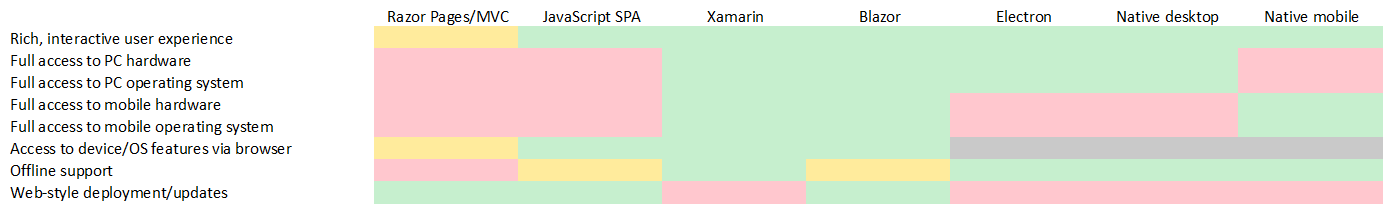
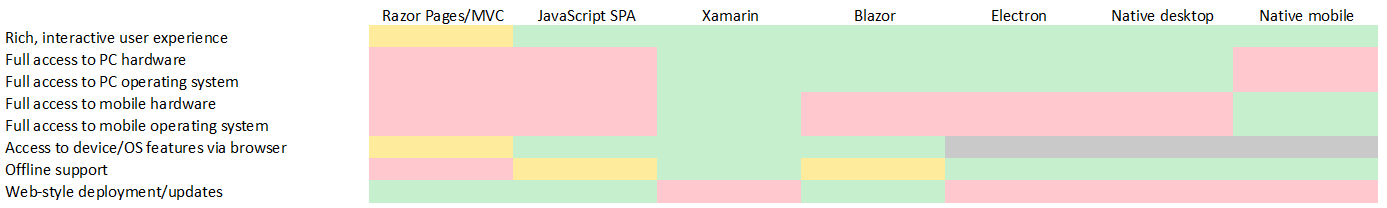
Update last post

diff --git a/_posts/2020-03-30-Choosing-Client-UI-Tech-in-Early-2020.md b/_posts/2020-03-30-Choosing-Client-UI-Tech-in-Early-2020.md
@@ -156,4 +156,4 @@ Here's a way to compare the capabilities I've discussed with the broad technolog
 
 Green is good, yellow is doable but perhaps limited or challenging, red is hard or impossible, gray is not applicable.
 
-You can see clearly that Xamarin and Blazor are the most capable and flexible of the options.
+You can see clearly that Xamarin is the most capable and flexible of the options, but it lacks the simplicity of web deployment. Blazor has web deployment and offers a great deal of capability. And it is a good bet that Blazor will have more capabilities in the future.
